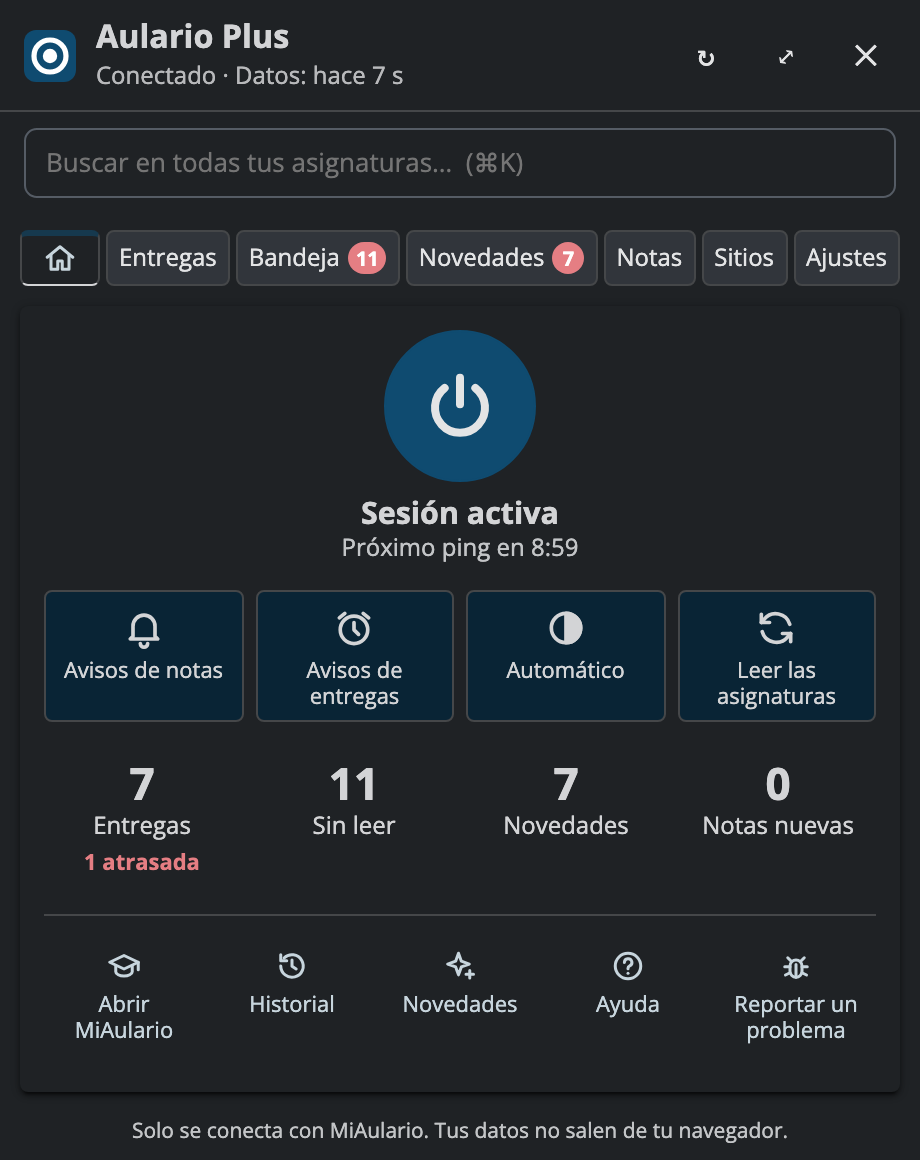
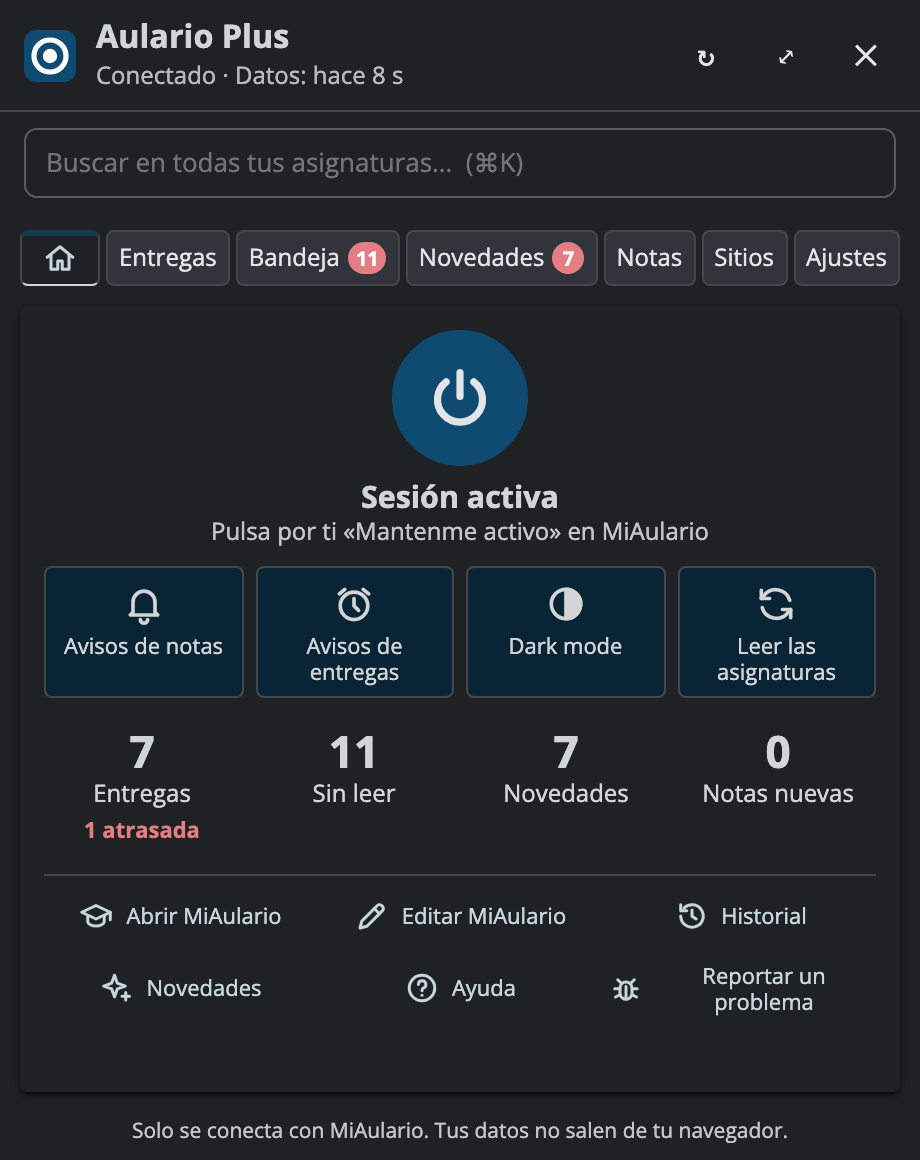
docs(site): 1.7.0, the button of the files, the session kept and edit miaulario

diff --git a/index.html b/index.html
@@ -108,7 +108,7 @@
           <button type="button" role="tab" aria-selected="false" aria-label="Novedades" data-tab="new" data-alt="La pestaña Novedades: lo nuevo de cada asignatura desde tu última visita." style="left: 44.11%; top: 19.84%; width: 20.83%; height: 4.83%;"></button>
           <button type="button" role="tab" aria-selected="false" aria-label="Notas" data-tab="grades" data-alt="La pestaña Notas: las notas de cada asignatura, con la calculadora." style="left: 65.59%; top: 19.84%; width: 9.99%; height: 4.83%;"></button>
           <button type="button" role="tab" aria-selected="false" aria-label="Sitios" data-tab="sites" data-alt="La pestaña Sitios: tus asignaturas, con un nombre más corto, su ZIP y la opción de ocultarlas." style="left: 76.23%; top: 19.84%; width: 9.32%; height: 4.83%;"></button>
-          <button type="button" role="tab" aria-selected="false" aria-label="Ajustes" data-tab="settings" data-alt="La pestaña Ajustes: el tema, el light o dark mode y los ajustes de la extensión." style="left: 86.21%; top: 19.84%; width: 11.62%; height: 4.83%;"></button>
+          <button type="button" role="tab" aria-selected="false" aria-label="Ajustes" data-tab="settings" data-alt="La pestaña Ajustes: una tarjeta por categoría (tema, sesión, avisos, datos, ubicación…) con su valor actual." style="left: 86.21%; top: 19.84%; width: 11.62%; height: 4.83%;"></button>
         </div>
       </div>
       <p class="small">Pulsa las pestañas de la imagen para ver cada parte del popup.</p>
@@ -118,7 +118,9 @@
   <section class="full">
     <h2>Qué hace</h2>
     <ul class="list2">
-      <li>Mantiene tu <strong>sesión</strong> de MiAulario <strong>abierta</strong> mientras el navegador está abierto.</li>
+      <li>Mantiene tu <strong>sesión</strong> de MiAulario <strong>abierta</strong>: pulsa por ti «Mantenme activo» cuando MiAulario avisa de que va a cerrarla, o la mantiene con un ping. Si aun así se cierra, <strong>vuelve a iniciarla</strong>.</li>
+      <li>Un botón de <strong>archivos</strong> junto a cada asignatura: abre Recursos, y al pasar el ratón ves sus carpetas y archivos para <strong>abrirlos o descargarlos</strong> al momento.</li>
+      <li><strong>Edita MiAulario</strong>: elimina con un clic los bloques que no uses, en todas tus asignaturas, y recupéralos desde Ajustes.</li>
       <li>Los <strong>horarios de hoy</strong> en Mi sitio: la biblioteca de tu campus (también en exámenes, verano y Semana Santa), el gimnasio, la piscina y la cafetería, y si están <strong>abiertos ahora</strong>.</li>
       <li>Un <strong>calendario de tus exámenes</strong> por meses, en Mi sitio y en cada asignatura.</li>
       <li><strong>Entregas</strong> con <strong>cuenta atrás</strong>, y avisos antes de las que no entregaste.</li>
@@ -131,6 +133,28 @@
       <li><strong>Confeti</strong> cuando entregas una tarea o un examen, sin sonido. Se puede apagar.</li>
       <li>Guarda tu <strong>configuración</strong> en un archivo y recupérala cuando quieras, desde Ajustes.</li>
     </ul>
+  </section>
+
+  <section class="row">
+    <div>
+      <h2>Los archivos de cada asignatura</h2>
+      <p>Junto al nombre de cada asignatura (y de Mi sitio) hay un botón de carpeta. Un clic abre sus Recursos. Pasa el ratón por encima y ves sus carpetas y archivos: un clic abre un archivo, o una carpeta en Recursos.</p>
+      <p><kbd>Ctrl</kbd>+clic (<kbd>⌘</kbd>+clic en Mac) lo abre en una pestaña nueva, y <kbd>Mayús</kbd>+clic lo descarga; una carpeta, en ZIP.</p>
+    </div>
+    <div class="media">
+      <a class="shot" href="img/archivos.png"><picture><source media="(prefers-color-scheme: dark)" srcset="img/archivos-oscuro.png"><img src="img/archivos.png" alt="El botón de archivos de Informática y Programación, con la lista de sus carpetas al pasar el ratón: Apuntes, Enlaces, Prácticas y Vacía, y el enlace Abrir Recursos." width="1000" height="300"></picture></a>
+    </div>
+  </section>
+
+  <section class="row two">
+    <div>
+      <h2>Tu sesión, siempre abierta</h2>
+      <p>MiAulario cierra tu sesión tras una hora sin actividad. Aulario Plus pulsa por ti «Mantenme activo» cuando MiAulario avisa de que va a cerrarla, o la mantiene con un ping cada pocos minutos, sin ninguna pestaña abierta. Lo eliges en Ajustes → Sesión. Si la sesión ya se cerró, borra las cookies de MiAulario y vuelve a iniciarla.</p>
+    </div>
+    <div>
+      <h2>Edita MiAulario</h2>
+      <p>Pulsa «Editar MiAulario» en el popup y haz clic en el bloque que no uses: deja de aparecer en todas tus asignaturas. Sirve para los bloques de MiAulario y para los de Aulario Plus, y los recuperas en Ajustes → Ubicación.</p>
+    </div>
   </section>
 
   <section class="full">
